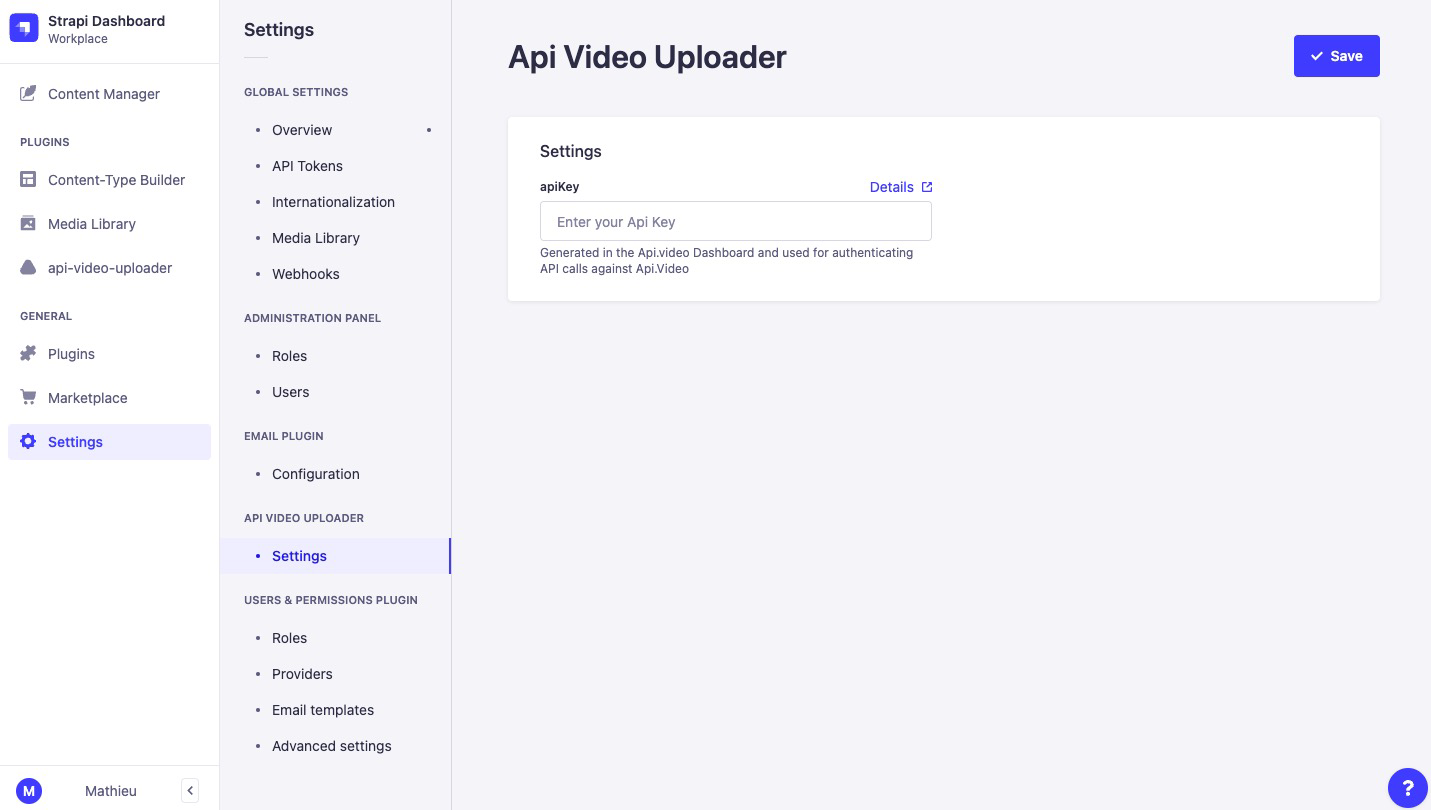
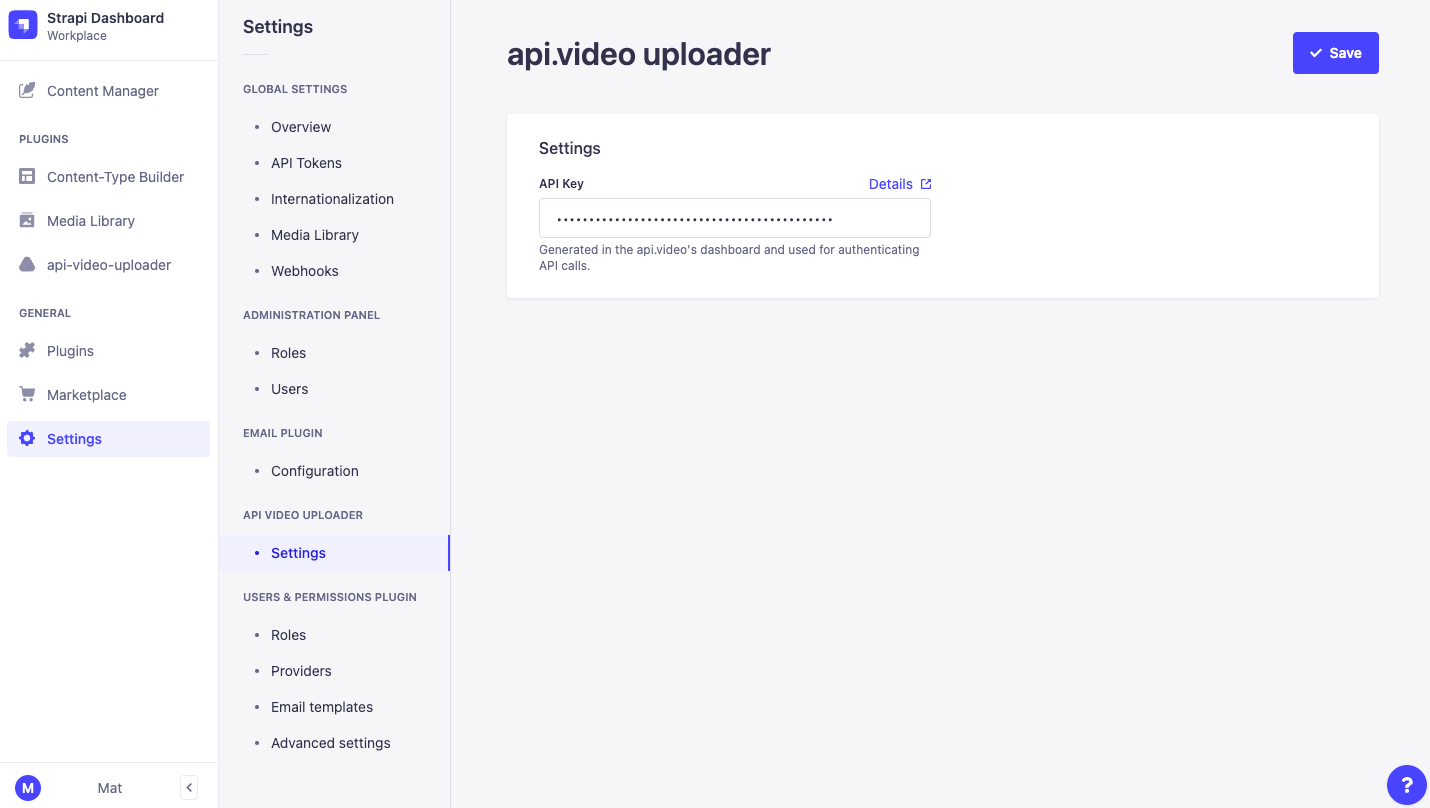
update readme and typo

diff --git a/admin/src/pages/Settings/index.tsx b/admin/src/pages/Settings/index.tsx
@@ -87,12 +87,12 @@ const Settings = () => {
             <Grid gap={6}>
               <GridItem col={6} s={12}>
                 <FieldComp
-                  name="apiKey"
-                  label="apiKey"
+                  name="API Key"
+                  label="API Key"
                   value={apiKey}
-                  placeholder="Enter your Api Key"
-                  description="Generated in the Api.video Dashboard and used for authenticating API calls against Api.Video"
-                  detailsLink="https://docs.api.video/docs/upload-a-video-regular-upload"
+                  placeholder="Enter your API Key"
+                  description="Generated in the api.video's dashboard and used for authenticating API calls."
+                  detailsLink="https://dashboard.api.video"
                   isPassword
                   onChange={handleChange}
                 />

diff --git a/README.md b/README.md
@@ -161,5 +161,3 @@ If you encounter an error or have questions, please feel free to file inquiries 
 
 - [api.video](https://docs.api.video/docs/apivideo-api-reference)
 - [Strapi.io](https://strapi.io/)
-
-video video-processing strapi video-streaming mux strapi-plugin strapi-cms
